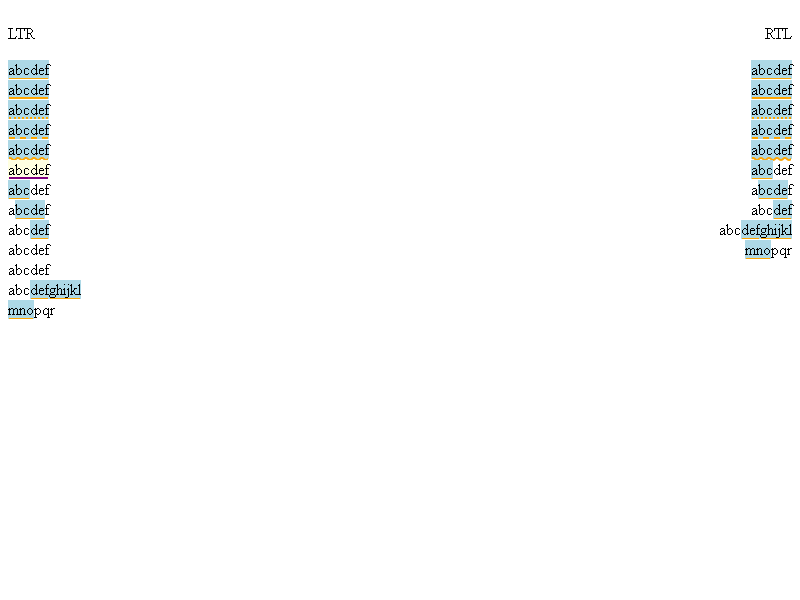
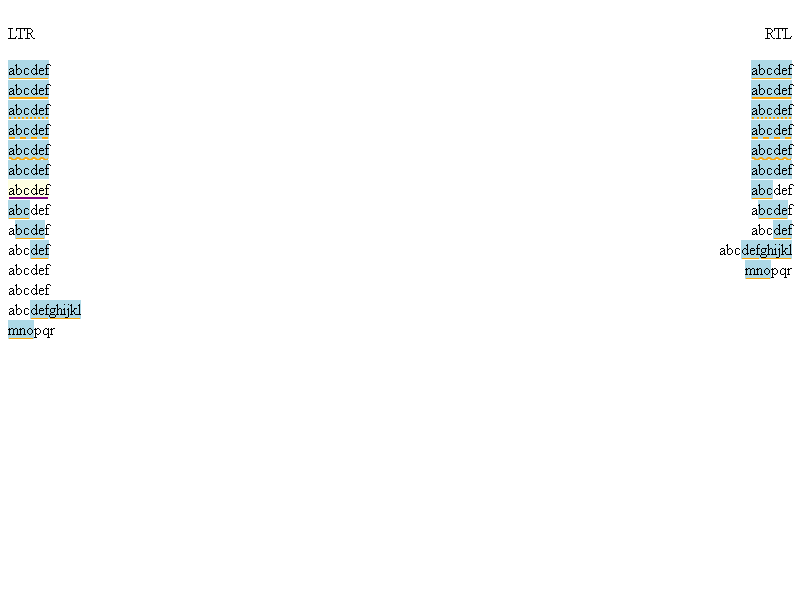
Removed painting styleable marker for underline style none.
On Windows, dictation comes as a composition and in some cases
the underline style is set as TF_LS_NONE to differentiate between
high confidence and low confidence words. This patch skips the
painting of underline if the style is set as none.

Bug: 1033764

Commit-Queue: Anupam Snigdha <snianu@microsoft.com>
Cr-Commit-Position: refs/heads/master@{#770396}

Changed region(s): [[0.0, 0.24, 0.125, 0.57], [0.9062, 0.27, 1.0, 0.48]]

diff --git a/web_tests/paint/markers/composition-marker-basic.html b/web_tests/paint/markers/composition-marker-basic.html
@@ -9,6 +9,7 @@
     <div id="markRtlAllDotted">abcdef</div>
     <div id="markRtlAllDashed">abcdef</div>
     <div id="markRtlAllSquiggled">abcdef</div>
+    <div id="markRtlNone">abcdef</div>
     <div id="markRtlBeginning">abcdef</div>
     <div id="markRtlAllExceptFirstAndLast">abcdef</div>
     <div id="markRtlEnd">abcdef</div>
@@ -22,6 +23,7 @@
     <div id="markAllDotted">abcdef</div>
     <div id="markAllDashed">abcdef</div>
     <div id="markAllSquiggled">abcdef</div>
+    <div id="markAllNone">abcdef</div>
     <div id="markAllDifferentColors">abcdef</div>
     <div id="markBeginning">abcdef</div>
     <div id="markAllExceptFirstAndLast">abcdef</div>
@@ -59,6 +61,7 @@ onload = runAfterLayoutAndPaint(function() {
     highlightRange(markAllDotted, 0, 6, 'orange', 'thick', 'dot', 'lightBlue');
     highlightRange(markAllDashed, 0, 6, 'orange', 'thick', 'dash', 'lightBlue');
     highlightRange(markAllSquiggled, 0, 6, 'orange', 'thick', 'squiggle', 'lightBlue');
+    highlightRange(markAllNone, 0, 6, 'orange', 'thick', 'none', 'lightBlue');
     highlightRange(markAllDifferentColors, 0, 6, 'purple', 'thick', 'solid', 'lightYellow');
     highlightRangeSimple(markBeginning, 0, 3);
     highlightRangeSimple(markAllExceptFirstAndLast, 1, 5);
@@ -71,6 +74,7 @@ onload = runAfterLayoutAndPaint(function() {
     highlightRange(markRtlAllDotted, 0, 6, 'orange', 'thick', 'dot', 'lightBlue');
     highlightRange(markRtlAllDashed, 0, 6, 'orange', 'thick', 'dash', 'lightBlue');
     highlightRange(markRtlAllSquiggled, 0, 6, 'orange', 'thick', 'squiggle', 'lightBlue');
+    highlightRange(markRtlNone, 0, 6, 'orange', 'thick', 'none', 'lightBlue');
     highlightRangeSimple(markRtlBeginning, 0, 3);
     highlightRangeSimple(markRtlAllExceptFirstAndLast, 1, 5);
     highlightRangeSimple(markRtlEnd, 3, 6);

diff --git a/renderer/core/paint/ng/ng_text_fragment_painter.cc b/renderer/core/paint/ng/ng_text_fragment_painter.cc
@@ -329,12 +329,15 @@ void PaintDocumentMarkers(GraphicsContext& context,
                     styleable_marker.BackgroundColor());
           break;
         }
-        const SimpleFontData* font_data = style.GetFont().PrimaryFont();
-        DocumentMarkerPainter::PaintStyleableMarkerUnderline(
-            context, box_origin, styleable_marker, style,
-            FloatRect(MarkerRectForForeground(
-                text_fragment, text, paint_start_offset, paint_end_offset)),
-            LayoutUnit(font_data->GetFontMetrics().Height()));
+        if (DocumentMarkerPainter::ShouldPaintMarkerUnderline(
+                styleable_marker)) {
+          const SimpleFontData* font_data = style.GetFont().PrimaryFont();
+          DocumentMarkerPainter::PaintStyleableMarkerUnderline(
+              context, box_origin, styleable_marker, style,
+              FloatRect(MarkerRectForForeground(
+                  text_fragment, text, paint_start_offset, paint_end_offset)),
+              LayoutUnit(font_data->GetFontMetrics().Height()));
+        }
       } break;
 
       default:

diff --git a/renderer/core/paint/document_marker_painter.cc b/renderer/core/paint/document_marker_painter.cc
@@ -126,6 +126,17 @@ void DrawDocumentMarker(GraphicsContext& context,
 
 }  // namespace
 
+bool DocumentMarkerPainter::ShouldPaintMarkerUnderline(
+    const StyleableMarker& marker) {
+  if (marker.HasThicknessNone() ||
+      (marker.UnderlineColor() == Color::kTransparent &&
+       !marker.UseTextColor()) ||
+      marker.UnderlineStyle() == ui::mojom::ImeTextSpanUnderlineStyle::kNone) {
+    return false;
+  }
+  return true;
+}
+
 void DocumentMarkerPainter::PaintStyleableMarkerUnderline(
     GraphicsContext& context,
     const PhysicalOffset& box_origin,
@@ -133,11 +144,6 @@ void DocumentMarkerPainter::PaintStyleableMarkerUnderline(
     const ComputedStyle& style,
     const FloatRect& marker_rect,
     LayoutUnit logical_height) {
-  if (marker.HasThicknessNone() ||
-      (marker.UnderlineColor() == Color::kTransparent &&
-       !marker.UseTextColor()))
-    return;
-
   // start of line to draw, relative to box_origin.X()
   LayoutUnit start = LayoutUnit(marker_rect.X());
   LayoutUnit width = LayoutUnit(marker_rect.Width());

diff --git a/renderer/core/paint/inline_text_box_painter.cc b/renderer/core/paint/inline_text_box_painter.cc
@@ -618,7 +618,8 @@ void InlineTextBoxPainter::PaintDocumentMarkers(
               paint_info.context, box_origin, style, font,
               styleable_marker.BackgroundColor(), marker_offsets.start,
               marker_offsets.end);
-        } else {
+        } else if (DocumentMarkerPainter::ShouldPaintMarkerUnderline(
+                       styleable_marker)) {
           PaintStyleableMarkerUnderline(paint_info.context, box_origin,
                                         styleable_marker, style, font);
         }

diff --git a/renderer/core/paint/document_marker_painter.h b/renderer/core/paint/document_marker_painter.h
@@ -41,6 +41,7 @@ class DocumentMarkerPainter {
   static TextPaintStyle ComputeTextPaintStyleFrom(const ComputedStyle& style,
                                                   const TextMarkerBase& marker,
                                                   bool in_forced_colors_mode);
+  static bool ShouldPaintMarkerUnderline(const StyleableMarker& marker);
 };
 
 }  // namespace blink
